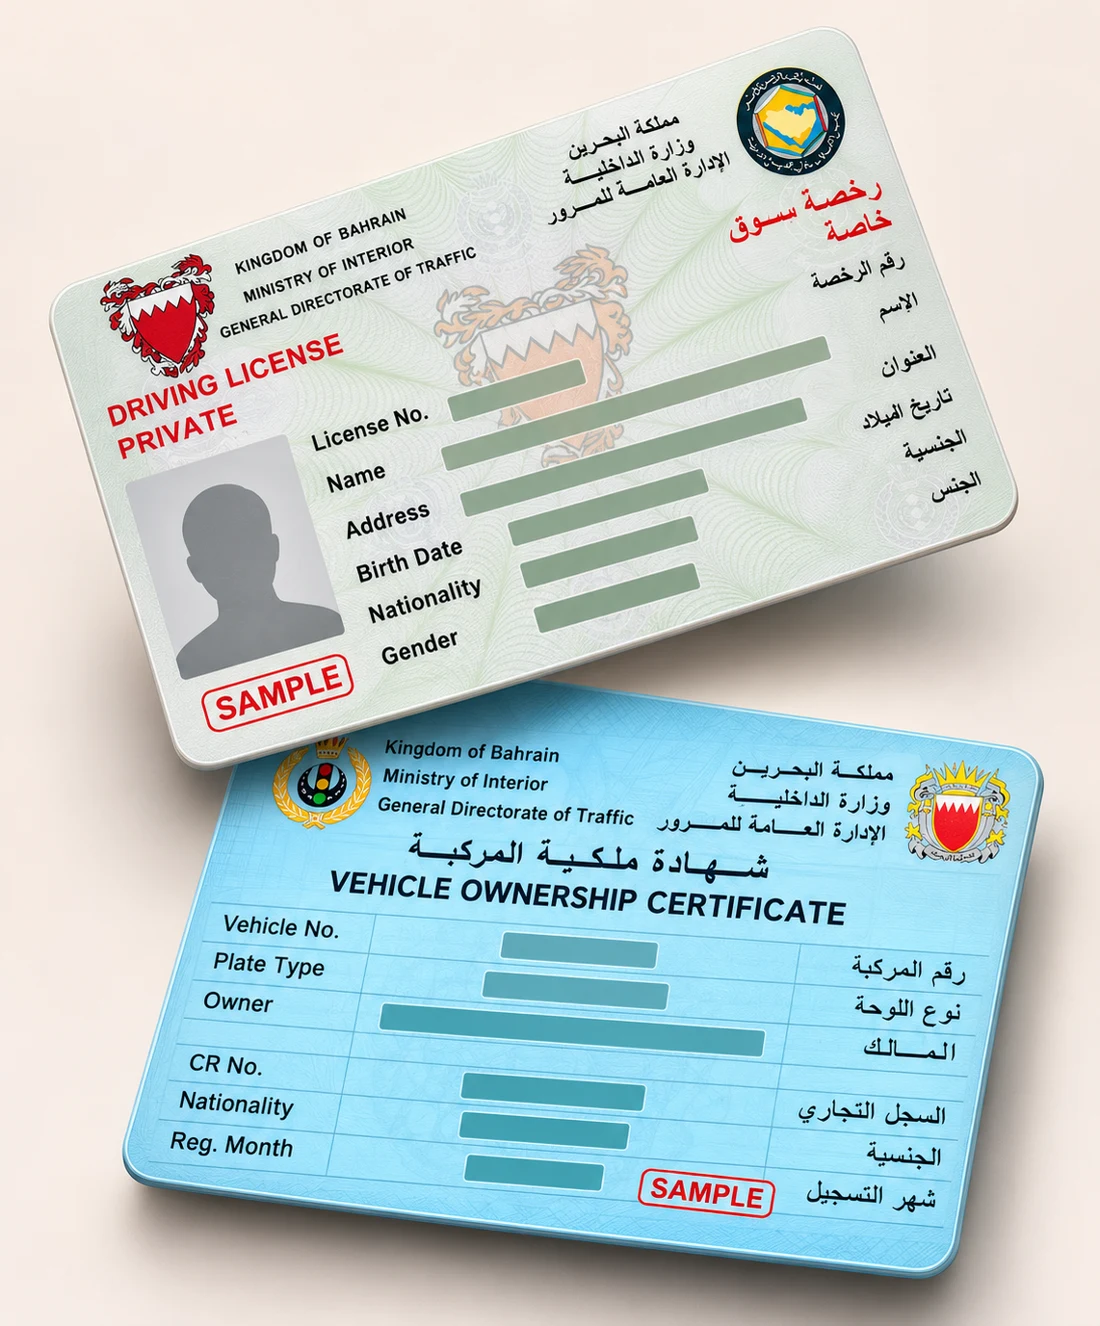
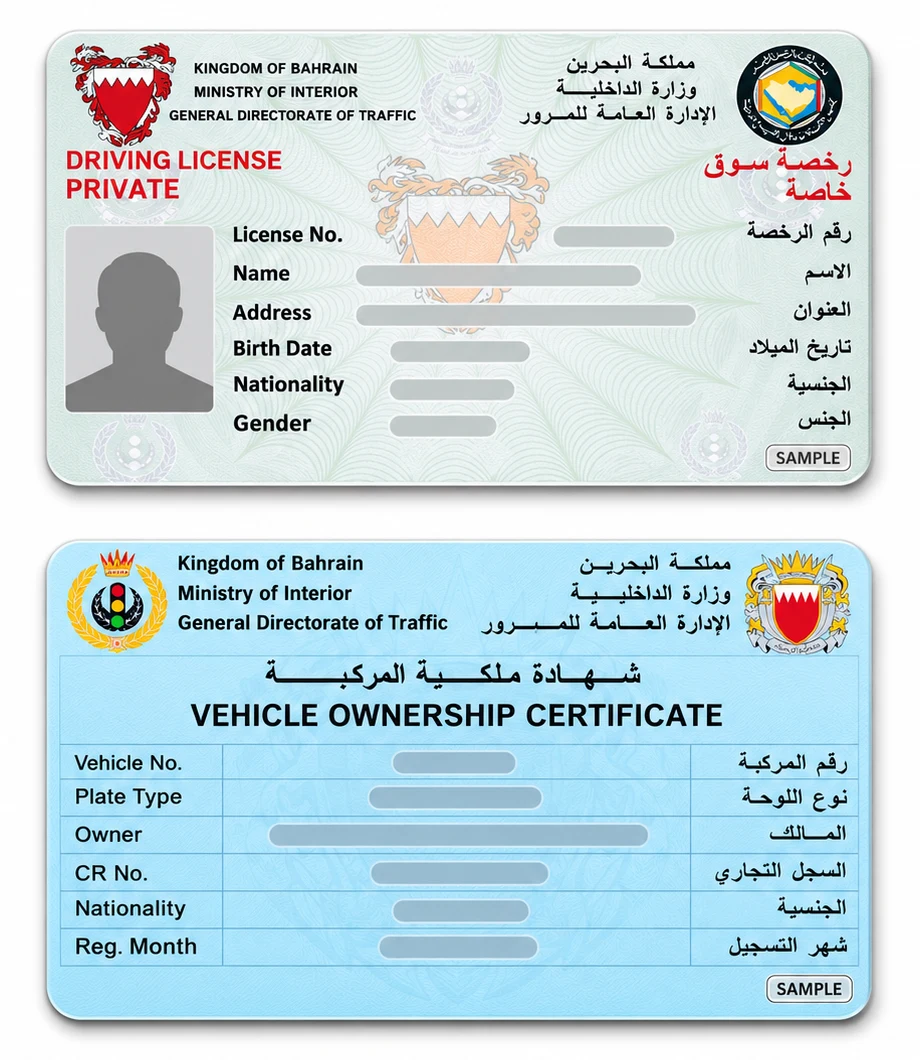
Licensing card: flat driving license and vehicle ownership sample image
Claude-Session: https://claude.ai/code/session_01Q8SfPFzKec2UT1Fop63zbA

diff --git a/ministry-services.html b/ministry-services.html
@@ -11313,7 +11313,7 @@ input, select, textarea {
 <style id="no-row-lines">main .mlx-row, main .svc-row, main .imm-service-list li, main .bx-int-list li, main:not(#_) .lmx-g .svc-row, main:not(#_) .imm-card .imm-service-list li { border-top:0 !important; border-bottom:0 !important; }</style>
 <style id="moi-hero-vehicle">.msr-photo.moi-hero-img { left:0 !important; top:0 !important; bottom:auto !important; right:auto !important; width:auto !important; max-width:66% !important; height:100% !important; object-fit:cover; object-position:left 60%; transform:none !important; animation:none !important; mix-blend-mode:normal !important; filter:none !important; -webkit-mask-image:linear-gradient(90deg,#000 50%,rgba(0,0,0,.45) 75%,transparent 100%) !important; mask-image:linear-gradient(90deg,#000 50%,rgba(0,0,0,.45) 75%,transparent 100%) !important; } @media (max-width:860px){ .msr-photo.moi-hero-img { position:relative !important; max-width:none !important; width:100% !important; height:240px !important; margin:0 !important; -webkit-mask-image:none !important; mask-image:none !important; } }</style>
 <style id="mlx-single">#smart-services .mlx-grid:has(> .mlx-card:only-child) { grid-template-columns:minmax(0,560px) !important; justify-content:center; }</style>
-<style id="mlx-side">@media (min-width:861px){ #smart-services .mlx-card:only-child .mlx-img { background:#f7ede5; } #smart-services .mlx-card:only-child .mlx-img img.moi-cards { object-fit:contain !important; object-position:center !important; padding:18px 8% 18px 6%; } } .mlx-img img.moi-cards { object-fit:contain; background:#f7ede5; }
+<style id="mlx-side">@media (min-width:861px){ #smart-services .mlx-card:only-child .mlx-img { background:#fff; } #smart-services .mlx-card:only-child .mlx-img img.moi-cards { object-fit:contain !important; object-position:center !important; padding:18px 8% 18px 6%; } } .mlx-img img.moi-cards { object-fit:contain; background:#fff; }
 @media (min-width:861px){ #smart-services .mlx-card:only-child { align-content:center; grid-template-rows:auto auto !important; } #smart-services .mlx-card:only-child .mlx-img { grid-row:1 / span 2 !important; align-self:stretch !important; min-height:420px; -webkit-mask-image:linear-gradient(90deg,#000 72%,transparent) !important; mask-image:linear-gradient(90deg,#000 72%,transparent) !important; } #smart-services .mlx-card:only-child .mlx-img::before { display:none !important; } #smart-services .mlx-card:only-child .mlx-img img { -webkit-mask-image:none !important; mask-image:none !important; } #smart-services .mlx-card:only-child .mlx-t { margin-top:0 !important; } }
 
 @media (min-width:861px){
@@ -11624,7 +11624,7 @@ input, select, textarea {
           <div class="mlx-grid">
           
           
-          <article class="mlx-card"><div class="mlx-img" aria-hidden="true"><img class="moi-cards" src="assets/moi-license-cards.webp" alt="" loading="lazy" decoding="async"></div><h3 class="mlx-t">Licensing &amp; Clearance</h3><ul class="mlx-rows"><li class="mlx-row"><span class="mlx-ico"><svg viewBox="0 0 24 24" aria-hidden="true"><rect x="3" y="6" width="18" height="12" rx="2"/><path d="M3 10h18M7 15h4"/></svg></span><span class="mlx-name">Driving license – renewal/update</span></li><li class="mlx-row"><span class="mlx-ico"><svg viewBox="0 0 24 24" aria-hidden="true"><circle cx="12" cy="12" r="9"/><path d="M3 12h18M12 3a14 14 0 0 1 0 18M12 3a14 14 0 0 0 0 18"/></svg></span><span class="mlx-name">International driving license</span></li><li class="mlx-row"><span class="mlx-ico"><svg viewBox="0 0 24 24" aria-hidden="true"><path d="M5 15l1.5-5A2 2 0 0 1 8.4 8.5h7.2a2 2 0 0 1 1.9 1.5L19 15"/><rect x="3.5" y="15" width="17" height="4" rx="1.5"/><circle cx="7.5" cy="19" r="1.3"/><circle cx="16.5" cy="19" r="1.3"/></svg></span><span class="mlx-name">Vehicle ownership transfer</span></li><li class="mlx-row"><span class="mlx-ico"><svg viewBox="0 0 24 24" aria-hidden="true"><path d="M5 15l1.5-5A2 2 0 0 1 8.4 8.5h7.2a2 2 0 0 1 1.9 1.5L19 15"/><rect x="3.5" y="15" width="17" height="4" rx="1.5"/><circle cx="7.5" cy="19" r="1.3"/><circle cx="16.5" cy="19" r="1.3"/></svg></span><span class="mlx-name">Vehicle passing &amp; annual registration renewal</span></li></ul></article>
+          <article class="mlx-card"><div class="mlx-img" aria-hidden="true"><img class="moi-cards" src="assets/moi-license-cards.webp?v=2" alt="" loading="lazy" decoding="async"></div><h3 class="mlx-t">Licensing &amp; Clearance</h3><ul class="mlx-rows"><li class="mlx-row"><span class="mlx-ico"><svg viewBox="0 0 24 24" aria-hidden="true"><rect x="3" y="6" width="18" height="12" rx="2"/><path d="M3 10h18M7 15h4"/></svg></span><span class="mlx-name">Driving license – renewal/update</span></li><li class="mlx-row"><span class="mlx-ico"><svg viewBox="0 0 24 24" aria-hidden="true"><circle cx="12" cy="12" r="9"/><path d="M3 12h18M12 3a14 14 0 0 1 0 18M12 3a14 14 0 0 0 0 18"/></svg></span><span class="mlx-name">International driving license</span></li><li class="mlx-row"><span class="mlx-ico"><svg viewBox="0 0 24 24" aria-hidden="true"><path d="M5 15l1.5-5A2 2 0 0 1 8.4 8.5h7.2a2 2 0 0 1 1.9 1.5L19 15"/><rect x="3.5" y="15" width="17" height="4" rx="1.5"/><circle cx="7.5" cy="19" r="1.3"/><circle cx="16.5" cy="19" r="1.3"/></svg></span><span class="mlx-name">Vehicle ownership transfer</span></li><li class="mlx-row"><span class="mlx-ico"><svg viewBox="0 0 24 24" aria-hidden="true"><path d="M5 15l1.5-5A2 2 0 0 1 8.4 8.5h7.2a2 2 0 0 1 1.9 1.5L19 15"/><rect x="3.5" y="15" width="17" height="4" rx="1.5"/><circle cx="7.5" cy="19" r="1.3"/><circle cx="16.5" cy="19" r="1.3"/></svg></span><span class="mlx-name">Vehicle passing &amp; annual registration renewal</span></li></ul></article>
           </div>
           <div class="pcc" id="pcc">
             <a class="pcc-doc pcc-has" href="assets/moi-good-conduct.webp?v=3" target="_blank" rel="noopener"><img src="assets/moi-good-conduct.webp?v=3" alt="Sample Good Conduct Certificate issued by the Kingdom of Bahrain Ministry of Interior" width="637" height="900" loading="lazy" decoding="async"></a>
